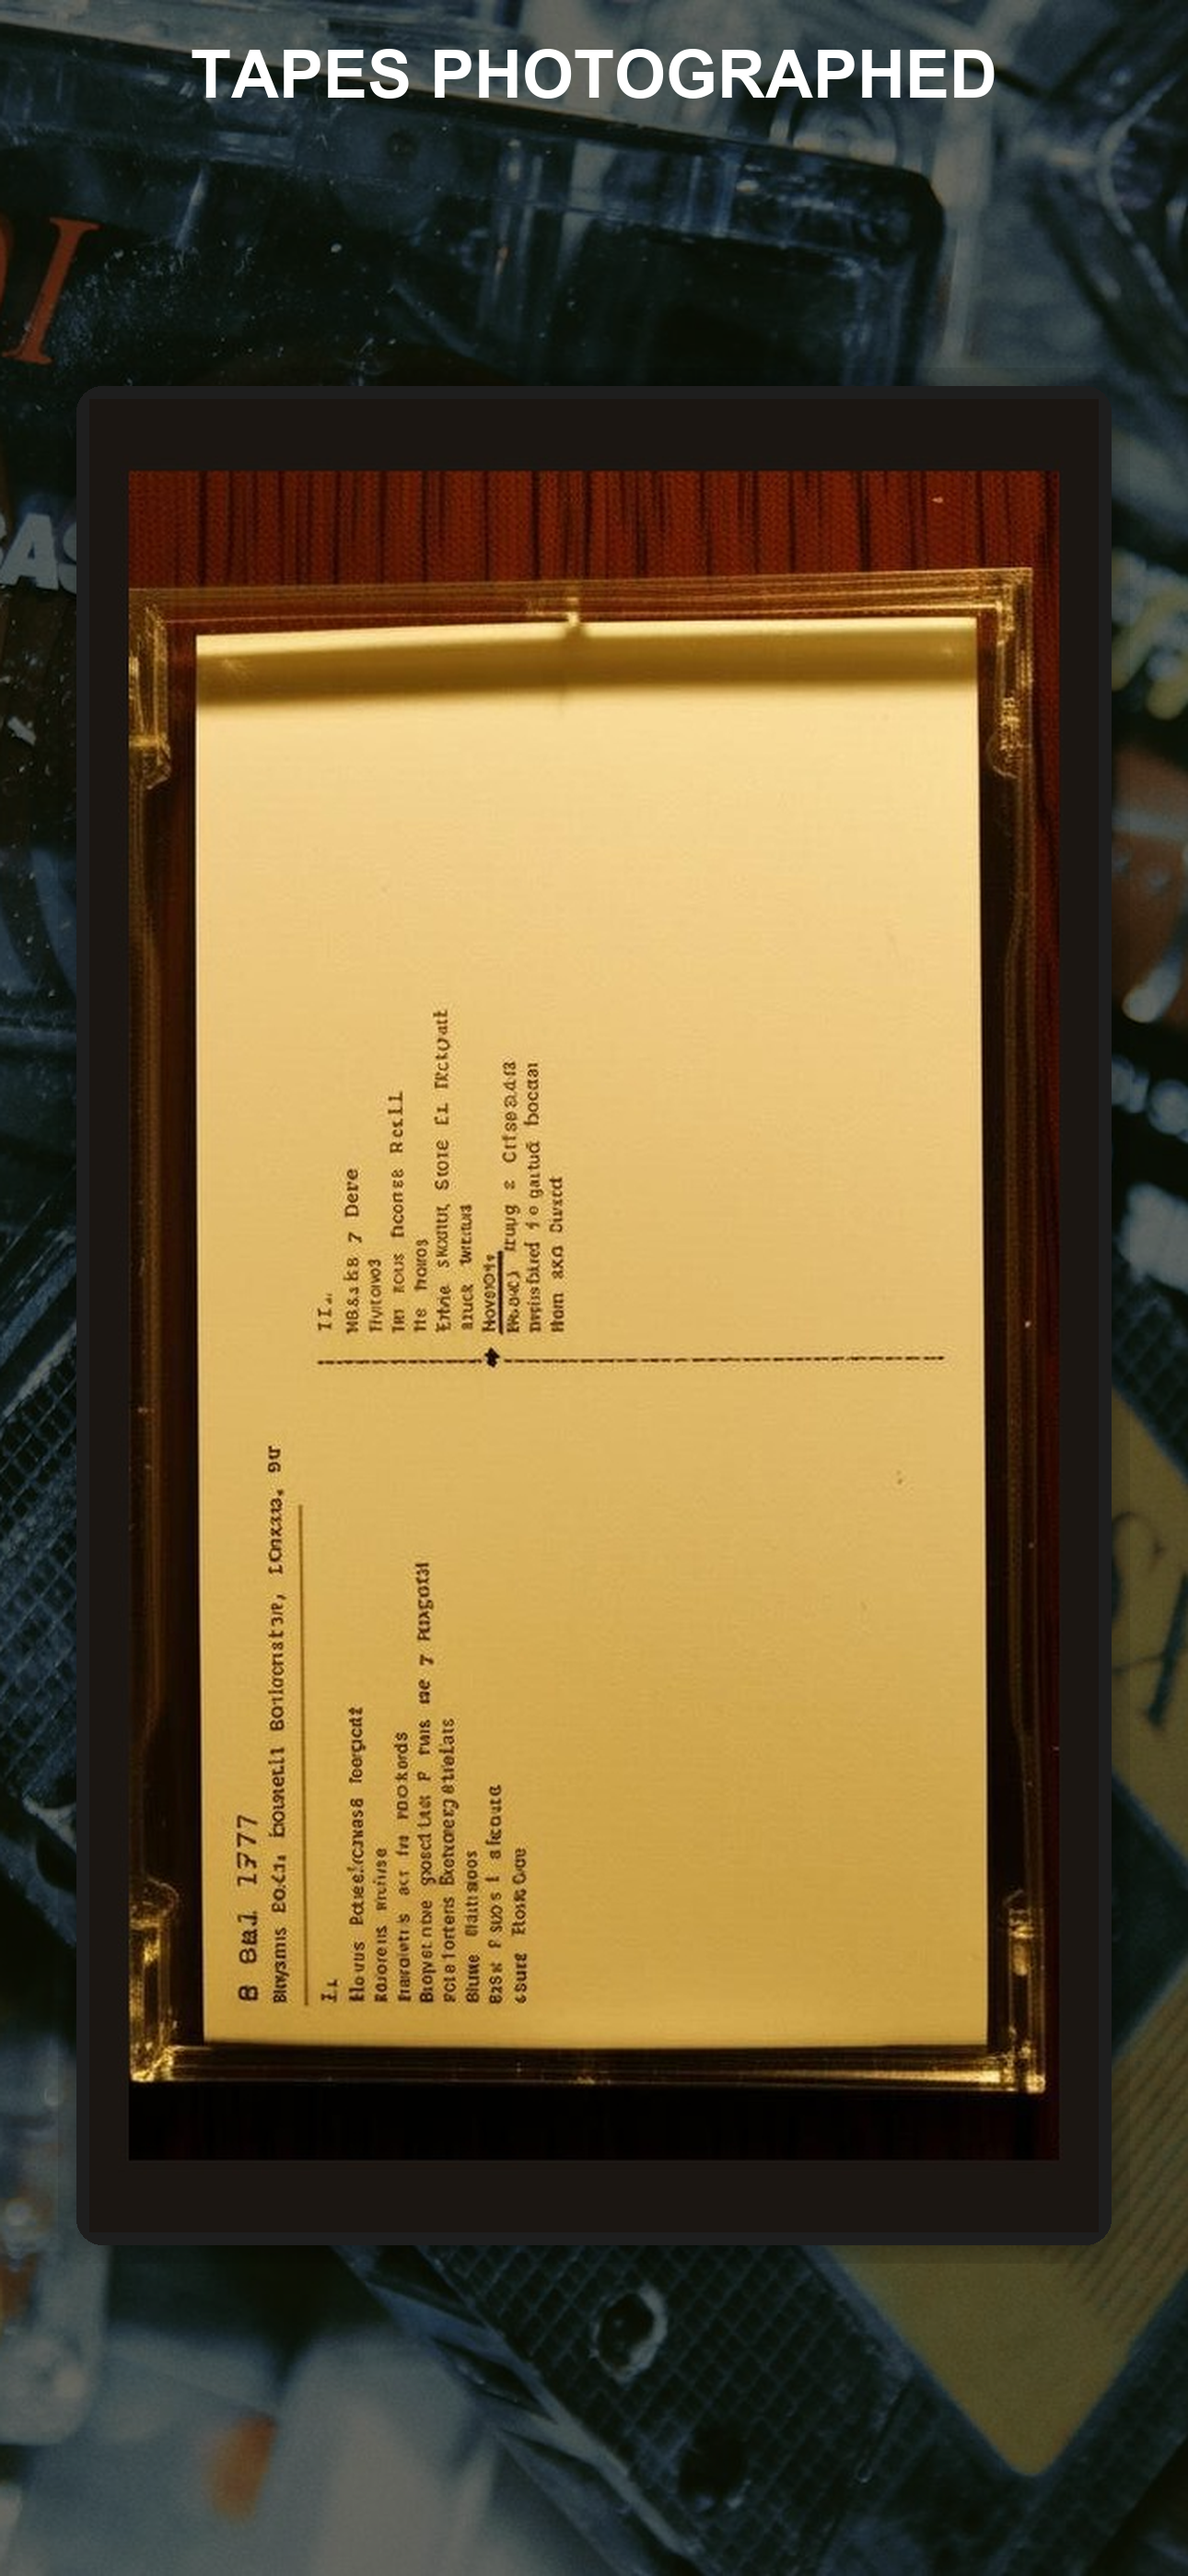
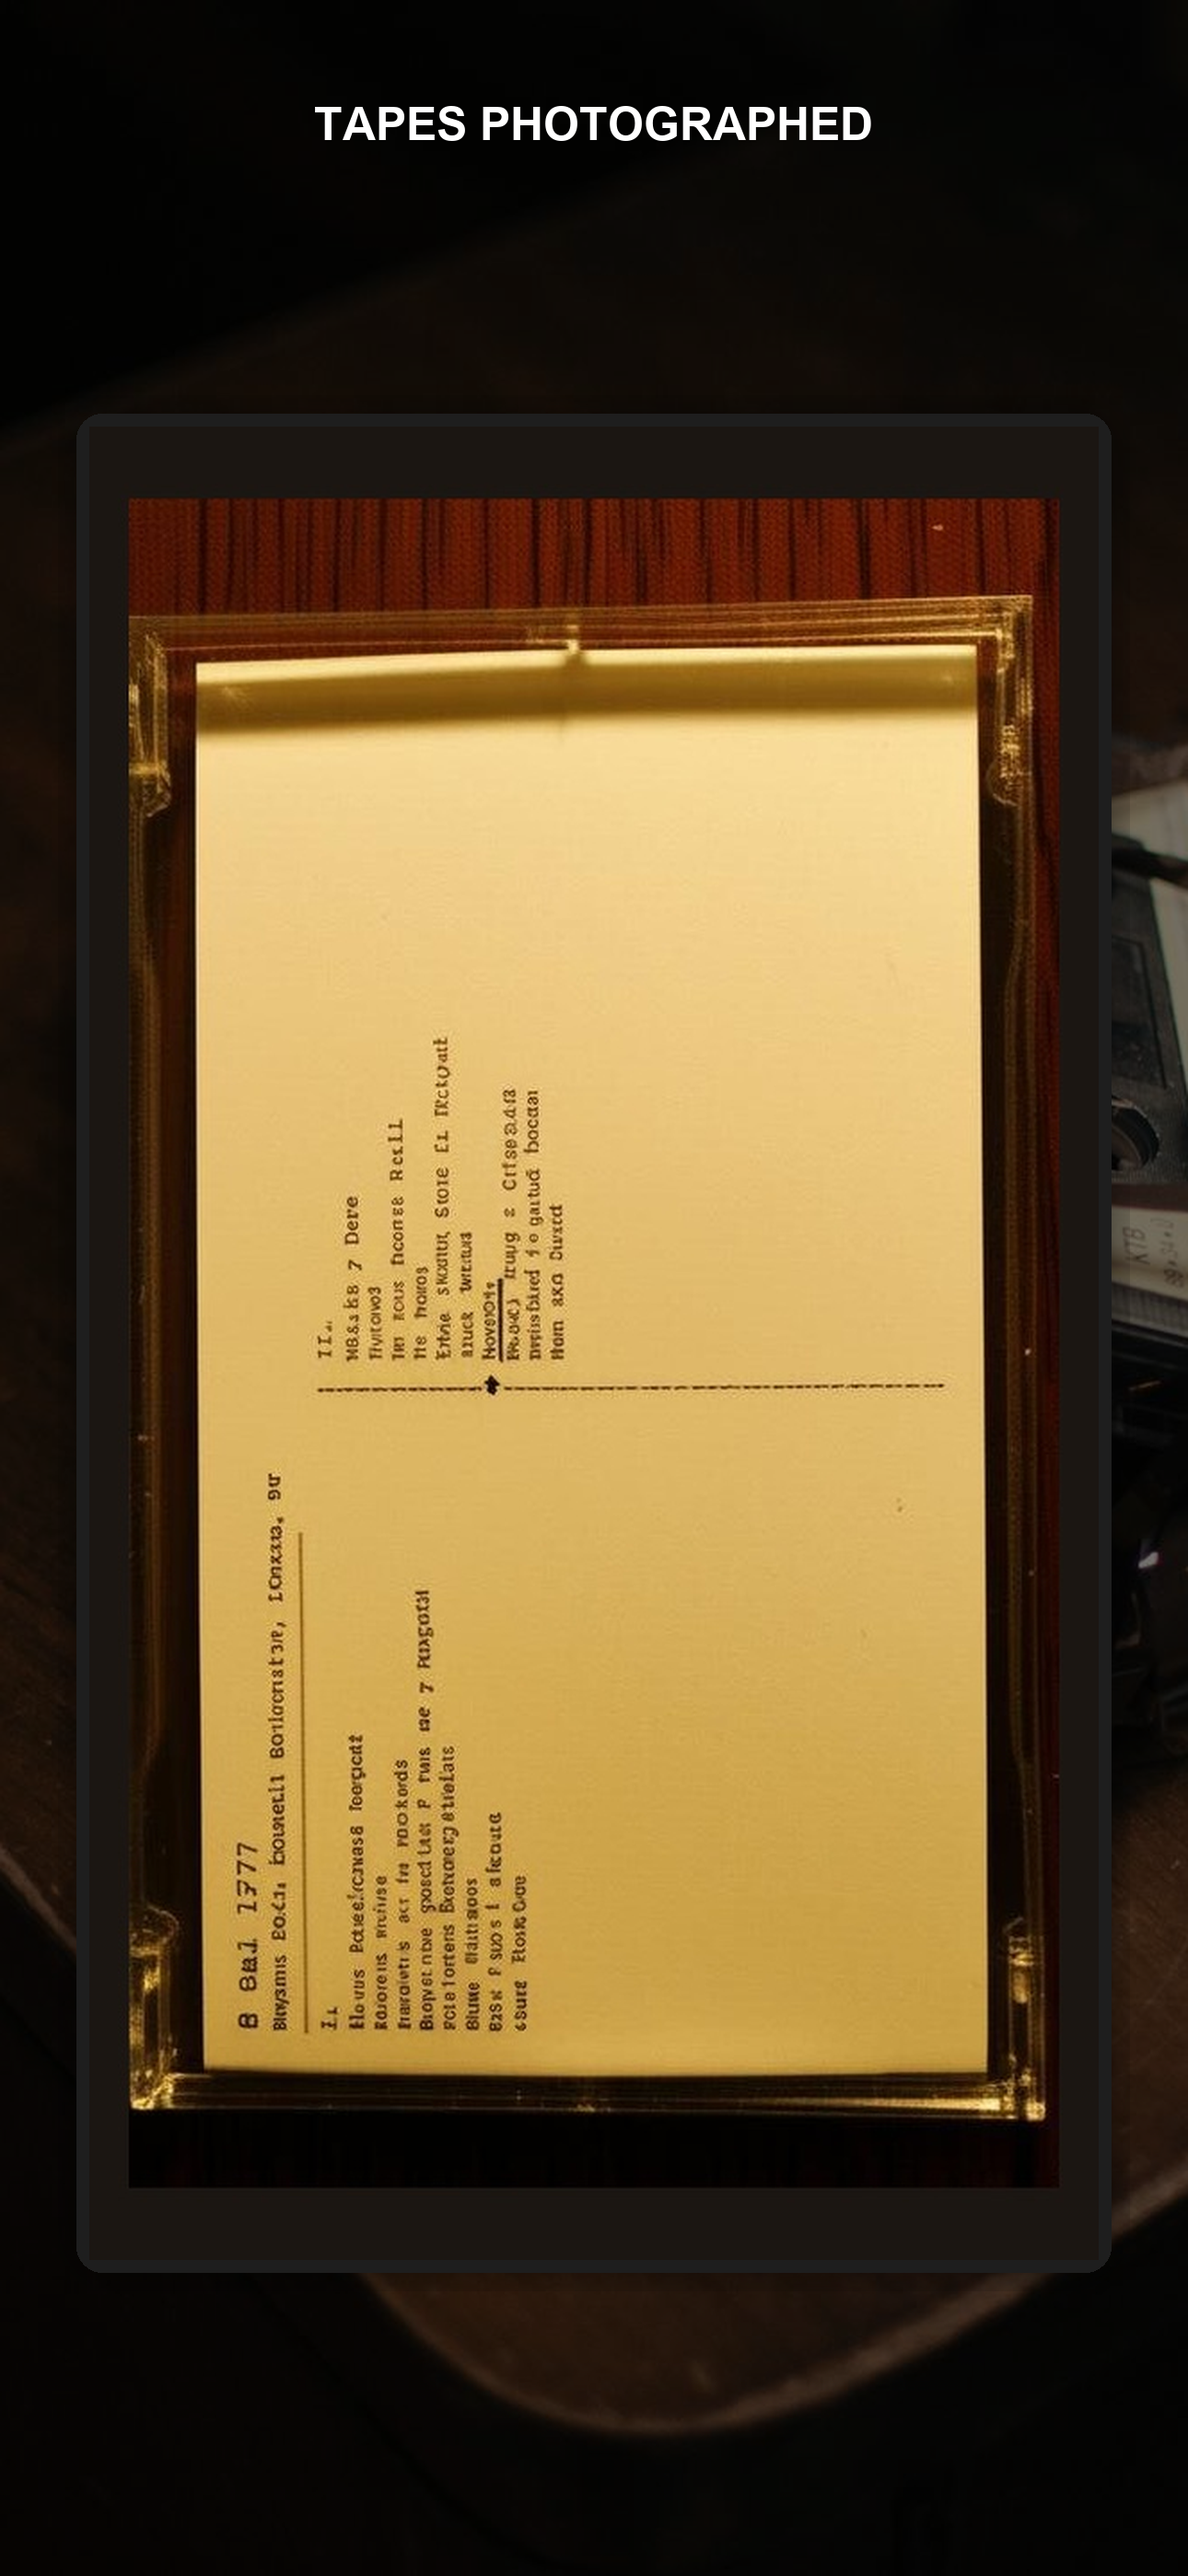
Final screenshot — stock-tape-5 bg, matched font

diff --git a/preview.html b/preview.html
@@ -1,4 +1,4 @@
 <!DOCTYPE html>
 <html><head><meta charset="UTF-8"><meta name="viewport" content="width=device-width"><title>Screenshot Preview</title>
 <style>body{background:#111;margin:0;padding:20px;text-align:center;}img{max-width:100%;max-height:90vh;}</style>
-</head><body><img src="appstore-screenshot-3-new.png?v=2"></body></html>
+</head><body><img src="appstore-screenshot-3-new.png?v=3"></body></html>
